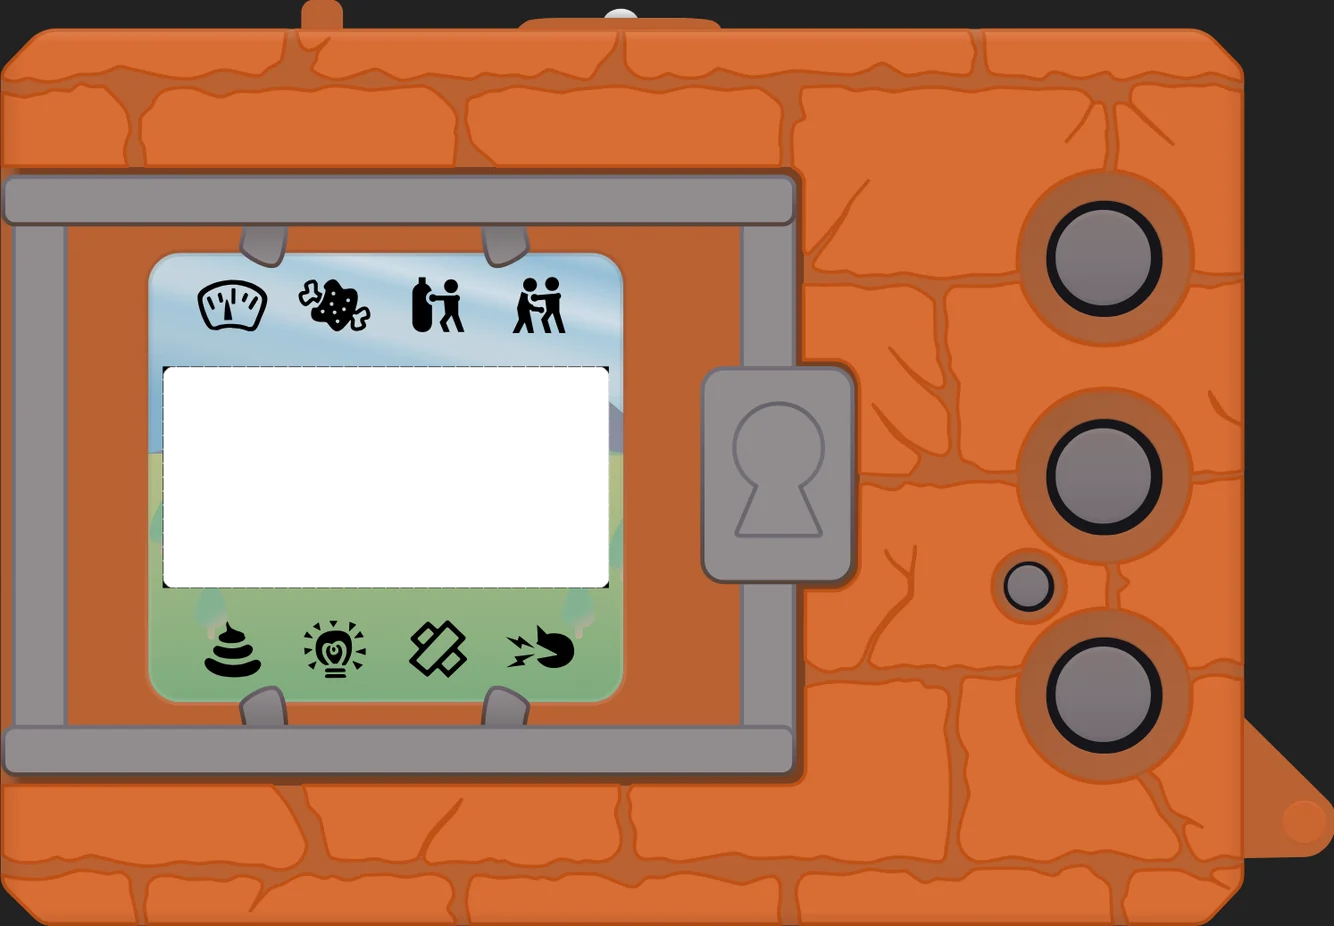
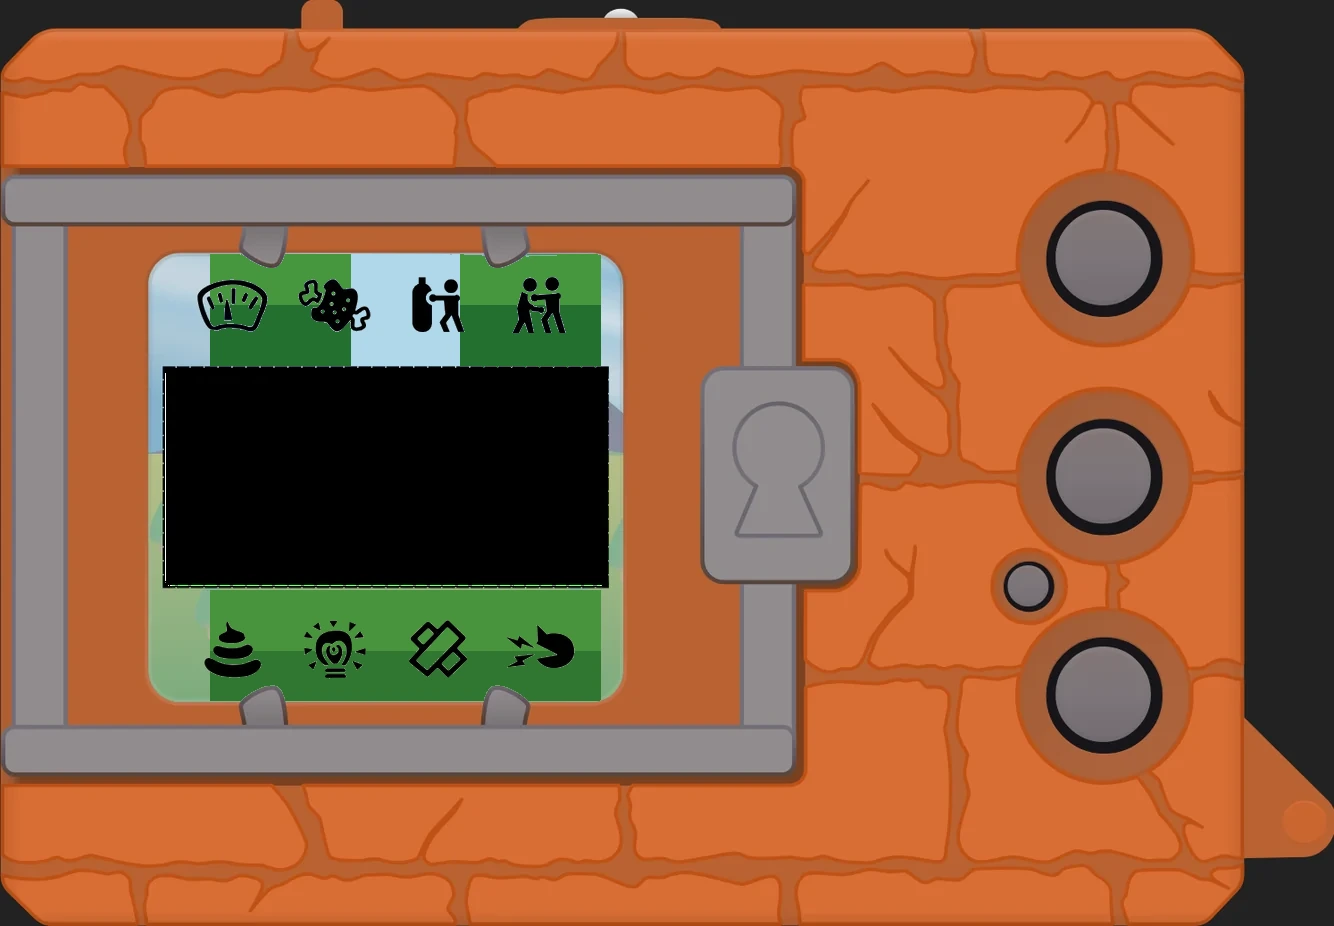
Give each 1997 version its own day scene.
Ver.3 to Ver.5 still wore the Ver.1 meadow, and the LCD cards did not match the grasslands, desert, forest, highland, and coast.

Changed region(s): [[0.1229, 0.2721, 0.461, 0.7559]]

diff --git a/js/ui.js b/js/ui.js
@@ -653,100 +653,99 @@
     var E = engine();
     return !!(state && E && E.isClockSet && E.isClockSet(state));
   }
-  // 1997 cardboard behind the LCD, one scene per version.
-  // Ver.1 野原, Ver.2 荒野, Ver.3 森林, Ver.4 高原, Ver.5 海岸.
-  // 32×16 dots, same grid as the playfield. Drawn from the COLOR
-  // recreations of those printed cards (day).
+  // 1997 cardboard behind the LCD, one day scene per version.
+  // Same five cards as the COLOR backgrounds: Ver.1 野原, Ver.2 荒野,
+  // Ver.3 森林, Ver.4 高原, Ver.5 海岸. 32×16 dots, playfield grid.
   var DM1997_BG = {
-    1: { pal: ['#8ecff0', '#f7fcff', '#8d97c9', '#b6e38a', '#5cb84e', '#2f7a34'], rows: [
+    1: { pal: ['#87c8ee', '#f4fbff', '#6d8eb8', '#8dce6a', '#4eae45', '#2f7a32'], rows: [
       '00000011110000000000011110000000',
       '00000111111000000000111111000000',
       '00000011110000000000011110000000',
       '00000000000000000000000000000000',
-      '00022000022200000222000002220000',
-      '02222202222220022222202222222022',
+      '00002222220000000022222200000000',
+      '00222222222200022222222222000000',
       '22222222222222222222222222222222',
       '33333333333333333333333333333333',
-      '33433333334333333333343333333433',
+      '33343333333433333334333333343333',
       '33333333333333333333333333333333',
-      '33334333333333343333333334333333',
       '44444444444444444444444444444444',
       '44454444444444544444444444454444',
       '44444444444444444444444444444444',
       '44444445444444444445444444444444',
-      '55555555555555555555555555555555'
+      '55555555555555555555555555555555',
+      '44444444444444444444444444444444'
     ]},
-    2: { pal: ['#79c8ee', '#e9f6fb', '#c4a06a', '#e6d7a8', '#a07848', '#8b6840'], rows: [
-      '00000011100000001110000000000000',
-      '00000111110000011111100000000000',
-      '00000011100000001110000000000000',
+    2: { pal: ['#79c8ee', '#fff6d0', '#d2a86a', '#a07840', '#e8d7a4', '#c4a56a'], rows: [
+      '00000011111000000000000000000000',
+      '00000111111110000000000000000000',
+      '00000011111000000000000000000000',
       '00000000000000000000000000000000',
       '22222000000000000000000000222222',
-      '22222200000000000000000002222222',
-      '44222220000000000000000222222444',
-      '44422222000000000000002222244444',
-      '33344444000000000000044444333333',
-      '33333344400000000000444333333333',
-      '33333333334000000043333333333333',
-      '33333333333344443333333333333333',
-      '33334333333333333333333343333333',
-      '33333333333333333333333333333333',
-      '33333333433333333334333333333333',
-      '55555555555555555555555555555555'
+      '33322200000000000000000002222333',
+      '33333220000000000000000222233333',
+      '44444330000000000000003333444444',
+      '44444444000000000000444444444444',
+      '44444444440000000044444444444444',
+      '55555555544000004455555555555555',
+      '44444444444444444444444444444444',
+      '44444444454444444445444444444444',
+      '44444444444444444444444444444444',
+      '55555555555555555555555555555555',
+      '44444444444444444444444444444444'
     ]},
-    3: { pal: ['#b7e4f4', '#d7ef78', '#3e9a48', '#1f5e30', '#e7f6c4', '#cfe7a4'], rows: [
-      '22211122222000000000222211122222',
-      '22112211222000000000221122112222',
+    3: { pal: ['#b7e4f4', '#d7ef78', '#3e9a48', '#1f5e30', '#8dce6a', '#3f8a40'], rows: [
+      '00000000000000000000000000000000',
+      '11122211100000000000111222111111',
+      '22112211220000000000221122112222',
       '22222222222000000000222222222222',
       '33222332223000000000332223322233',
       '33333333333000000000333333333333',
-      '33323332333000000000333233323333',
       '33333333333400000043333333333333',
-      '44433333333440000443333333333444',
-      '44444333334444444443333334444444',
-      '55555444444444444444444444555555',
-      '55555555554444444444555555555555',
-      '55555555555544444455555555555555',
+      '44444444444400004444444444444444',
+      '44444444444444444444444444444444',
+      '55544444444444444444444444455555',
+      '44455544444444444444444455544444',
+      '44444444444444444444444444444444',
+      '44445444444444444444444445444444',
+      '44444444444444444444444444444444',
+      '55555555555555555555555555555555',
+      '44444444444444444444444444444444'
+    ]},
+    4: { pal: ['#8ec8ea', '#f7fbff', '#8aa0b4', '#6a9a62', '#3e6e48', '#b7c4a4'], rows: [
+      '00000000000000000000000000000000',
+      '00000111000000000000111000000000',
+      '00001111110000000011111100000000',
+      '00111111111000011111111110000000',
+      '01111222111102211112221111000000',
+      '33322222221122222222222222333333',
+      '33333222222222222222222233333333',
+      '44444333222222222222223334444444',
+      '44444444333333333333334444444444',
+      '55544444444444444444444444444555',
+      '55555544444444444444444444555555',
+      '55555555555555555555555555555555',
+      '55555555545555555554555555555555',
       '55555555555555555555555555555555',
       '55545555555555555555555555545555',
-      '55555555554555555554555555555555',
       '55555555555555555555555555555555'
     ]},
-    4: { pal: ['#d7eef8', '#ffffff', '#f4f7fb', '#9eb0c4', '#d5e2ee', '#c5d4e4'], rows: [
-      '00000001110000000011100000000000',
-      '00000011111000000111110000000000',
-      '00000001110000000011100000000000',
-      '00222000002220000022200000022200',
-      '02222200022222000222220000222220',
-      '33322220022222202222222002222333',
-      '33333222022222222222222202233333',
-      '44433332222222222222222222333444',
-      '44444333222222222222222223334444',
-      '55544444333333333333333344444555',
-      '55555444444444444444444444555555',
-      '55555555555555555555555555555555',
-      '55555555555555555555555555555555',
-      '55545555555555555555555555545555',
-      '55555555554555555554555555555555',
-      '55555555555555555555555555555555'
-    ]},
-    5: { pal: ['#b7e3f6', '#f4fbff', '#3aa0d0', '#e8f7ff', '#f0e2b8', '#d7c48a', '#6f8f7a'], rows: [
+    5: { pal: ['#b7e3f6', '#f4fbff', '#3aa0d0', '#7ec8e8', '#f0e2b8', '#d7c48a'], rows: [
       '00000011110000000000111100000000',
       '00000111111000000001111110000000',
       '00000011110000000000111100000000',
-      '22222222222222222222226666622222',
+      '00000000000000000000000000000000',
       '22222222222222222222222222222222',
-      '22232222222223222222222322222222',
       '33333333333333333333333333333333',
+      '22222222222222222222222222222222',
+      '33333333333333333333333333333333',
+      '22222222222222222222222222222222',
       '44444444444444444444444444444444',
       '54444444444444444444444444444445',
       '44444444444444444444444444444444',
       '44454444444444454444444444454444',
       '44444444444444444444444444444444',
       '55555555555555555555555555555555',
-      '55545555555555555555555555545555',
-      '55555555555555555555555555555555',
-      '55555555555555555555555555555555'
+      '44444444444444444444444444444444'
     ]}
   };
 

diff --git a/tests/offline-clock.test.js b/tests/offline-clock.test.js
@@ -23,7 +23,7 @@ const html = fs.readFileSync(path.join(ROOT, 'index.html'), 'utf8');
 const manifest = JSON.parse(fs.readFileSync(path.join(ROOT, 'manifest.json'), 'utf8'));
 const block = sw.slice(sw.indexOf('var ASSETS = ['), sw.indexOf('];', sw.indexOf('var ASSETS = [')));
 const assets = new Set((block.match(/'([^']+)'/g) || []).map((s) => s.slice(1, -1)));
-eq((sw.match(/var CACHE = '([^']+)'/) || [])[1], 'digivice-v52', 'cache name bumped to digivice-v52');
+eq((sw.match(/var CACHE = '([^']+)'/) || [])[1], 'digivice-v53', 'cache name bumped to digivice-v53');
 const refs = [];
 html.replace(/(?:src|href)="(\.\/[^"#?]+)"/g, (m, u) => { refs.push(u); return m; });
 ok(refs.length > 40, 'index.html local refs parsed (' + refs.length + ')');

diff --git a/sw.js b/sw.js
@@ -1,4 +1,4 @@
-/* Offline cache for 數碼怪獸對打機 — v52 (Pendulum icons match the shell)
+/* Offline cache for 數碼怪獸對打機 — v53 (1997 scenes match each version)
  * - Precaches every file index.html loads plus ALL device shells (WebP,
  *   ~2.4 MB), so any device works on an offline first launch.
  * - Precache requests bypass the HTTP cache (cache: 'reload'), so a new
@@ -9,7 +9,7 @@
  * - Only same-origin, non-redirected, 200 'basic' responses are cached.
  * - Old caches are deleted only after the new one is complete.
  */
-var CACHE = 'digivice-v52';
+var CACHE = 'digivice-v53';
 var APP_SHELL = './index.html';
 var ASSETS = [
   './',
